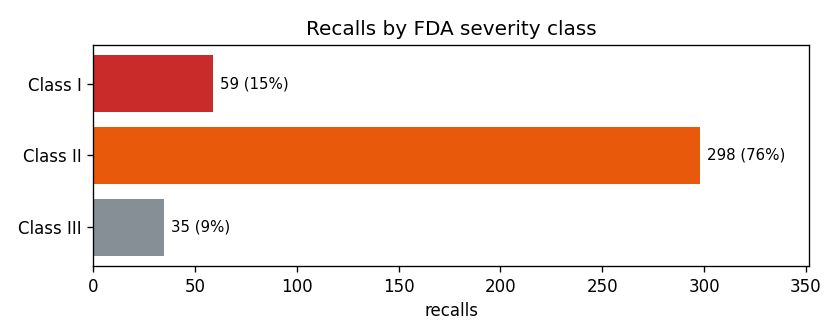
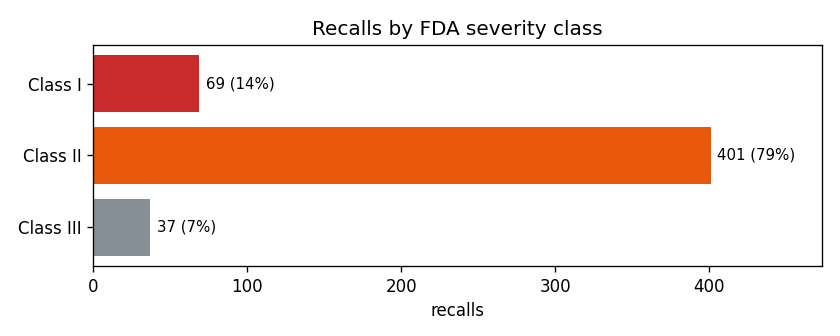
Add median lag by report month; refresh data (115 new archived recalls)

diff --git a/src/recallradar/analyze.py b/src/recallradar/analyze.py
@@ -488,3 +488,28 @@ def report_date_gaps(records: list[dict], n: int = 3) -> dict:
         median = sizes[mid] if len(sizes) % 2 else (sizes[mid - 1] + sizes[mid]) / 2
     longest = sorted(gaps, key=lambda g: (-g["days"], g["from"]))[:n]
     return {"report_dates": len(days), "median_gap_days": median, "longest": longest}
+
+
+def lag_by_report_month(records: list[dict], min_recalls: int = 10) -> list[dict]:
+    """Median reporting lag (days from initiation to enforcement report) per
+    report month, oldest first. Months with fewer than min_recalls usable
+    lags are skipped. openFDA publishes in batches, so a month's lag mostly
+    reflects what was published when; informational only."""
+    by_month: dict[str, list[int]] = {}
+    for rec in records:
+        try:
+            rep = parse_report_date(rec.get("report_date") or "")
+            lag = (rep - parse_report_date(rec.get("recall_initiation_date") or "")).days
+        except ValueError:
+            continue
+        if lag >= 0:
+            by_month.setdefault(rep.strftime("%Y-%m"), []).append(lag)
+    out = []
+    for month in sorted(by_month):
+        lags = sorted(by_month[month])
+        if len(lags) < min_recalls:
+            continue
+        mid = len(lags) // 2
+        median = lags[mid] if len(lags) % 2 else (lags[mid - 1] + lags[mid]) / 2
+        out.append({"month": month, "recalls": len(lags), "median_lag": median})
+    return out

diff --git a/src/recallradar/report.py b/src/recallradar/report.py
@@ -53,7 +53,8 @@ def render_markdown(summary: dict, spotlight: list[dict],
                     slowest: list[dict] | None = None,
                     lag_dist: list[dict] | None = None,
                     firm_class_mix: list[dict] | None = None,
-                    date_gaps: dict | None = None) -> str:
+                    date_gaps: dict | None = None,
+                    lag_months: list[dict] | None = None) -> str:
     generated_at = generated_at or dt.datetime.now(dt.timezone.utc)
     if endpoint_updated:
         parts = ", ".join(f"{ep} {d}" for ep, d in sorted(endpoint_updated.items()))
@@ -115,6 +116,11 @@ def render_markdown(summary: dict, spotlight: list[dict],
                   "| From | To | Days |", "| --- | --- | ---: |"]
         for g in date_gaps["longest"]:
             lines.append(f"| {g['from']} | {g['to']} | {g['days']} |")
+    if lag_months:
+        lines += ["", "Median lag by report month (months with 10+ recalls; reflects openFDA batch timing):", "",
+                  "| Report month | Recalls | Median lag (days) |", "| --- | ---: | ---: |"]
+        for m in lag_months:
+            lines.append(f"| {m['month']} | {m['recalls']} | {m['median_lag']:g} |")
     if lag_by_product:
         lines += ["", "Lag by product type (days, slowest first):", "",
                   "| Product type | Recalls | Median lag | p90 |",

diff --git a/tests/test_analyze.py b/tests/test_analyze.py
@@ -586,3 +586,17 @@ def test_report_date_gaps_median_longest_and_render():
     assert analyze.report_date_gaps([]) == {"report_dates": 0, "median_gap_days": None, "longest": []}
     md = report.render_markdown(analyze.summarize([r for r in recs if r["report_date"] and r["report_date"] != "bad"]), [], dt.date(2026, 11, 1), dt.date(2026, 11, 18), date_gaps=out)
     assert "| 2026-11-03 | 2026-11-10 | 7 |" in md
+
+
+def test_lag_by_report_month_median_floor_and_render():
+    from recallradar import analyze, report
+    import datetime as dt
+    def r(rep, lag):
+        init = dt.date.fromisoformat(rep) - dt.timedelta(days=lag)
+        return {"report_date": rep.replace("-", ""), "recall_initiation_date": init.strftime("%Y%m%d")}
+    recs = [r("2026-10-05", l) for l in (10, 20, 30, 40)] + [r("2026-11-05", 5), r("2026-11-06", 9)]
+    out = analyze.lag_by_report_month(recs, min_recalls=3)
+    assert out == [{"month": "2026-10", "recalls": 4, "median_lag": 25.0}]
+    assert analyze.lag_by_report_month([]) == []
+    md = report.render_markdown(analyze.summarize(recs), [], dt.date(2026, 11, 1), dt.date(2026, 11, 18), lag_months=out)
+    assert "| 2026-10 | 4 | 25 |" in md

diff --git a/scripts/daily_update.py b/scripts/daily_update.py
@@ -111,7 +111,8 @@ def main() -> None:
                                slowest=analyze.slowest_reported(records),
                                lag_dist=analyze.lag_distribution(records),
                                firm_class_mix=analyze.class_mix_by_firm(records),
-                               date_gaps=analyze.report_date_gaps(records)),
+                               date_gaps=analyze.report_date_gaps(records),
+                               lag_months=analyze.lag_by_report_month(records)),
         encoding="utf-8",
     )
     if report.plot_daily_counts(records, REPORTS / "recalls_last_30d.png",

diff --git a/reports/daily_report.md b/reports/daily_report.md
@@ -1,110 +1,117 @@
 # FDA Recall Radar - daily report
 
-Window: 2026-10-25 to 2026-11-24 (by report date). openFDA last_updated by endpoint: device 2026-11-11, drug 2026-11-11, food 2026-11-11. Generated 2026-11-24 20:04 UTC.
+Window: 2026-10-26 to 2026-11-25 (by report date). openFDA last_updated by endpoint: device 2026-11-18, drug 2026-11-18, food 2026-11-18. Generated 2026-11-25 12:04 UTC.
 
-**394 recalls** across 3 active days.
-
-> **Stale upstream data:** openFDA has not published for over 7 days (device 13 days, drug 13 days, food 13 days). Recent days may be missing here until it does.
+**509 recalls** across 4 active days.
 
 ## By severity
 
 | Classification | Recalls |
 | --- | ---: |
-| Class I | 59 |
-| Class II | 298 |
-| Class III | 35 |
+| Class I | 69 |
+| Class II | 401 |
+| Class III | 37 |
 
 ## By product area
 
 | Product type | Recalls |
 | --- | ---: |
-| Devices | 177 |
-| Drugs | 119 |
-| Food | 98 |
+| Devices | 265 |
+| Drugs | 132 |
+| Food | 112 |
 
 ## Reporting lag
 
-Days from recall initiation to the enforcement report, over the 394 recalls in the window with both dates: median **43.0**, p90 65, longest 917.
+Days from recall initiation to the enforcement report, over the 509 recalls in the window with both dates: median **43**, p90 65, longest 1713.
 
 | Classification | Recalls | Median lag | p90 |
 | --- | ---: | ---: | ---: |
-| Class I | 59 | 41 | 65 |
-| Class II | 298 | 42.0 | 65 |
-| Class III | 35 | 65 | 65 |
+| Class I | 69 | 41 | 65 |
+| Class II | 401 | 43 | 65 |
+| Class III | 37 | 65 | 65 |
 
 Lag distribution (recalls with both dates):
 
 | Lag | Recalls | Share |
 | --- | ---: | ---: |
-| 0-14 days | 2 | 0.5% |
-| 15-30 days | 107 | 27.2% |
-| 31-60 days | 196 | 49.8% |
-| 61-90 days | 76 | 19.3% |
-| over 90 days | 13 | 3.3% |
+| 0-14 days | 3 | 0.6% |
+| 15-30 days | 122 | 24.0% |
+| 31-60 days | 273 | 53.6% |
+| 61-90 days | 84 | 16.5% |
+| over 90 days | 27 | 5.3% |
 
 Firms with the highest Class I share (3+ recalls in the window; small counts are noisy):
 
 | Firm | Recalls | Class I | Class I share |
 | --- | ---: | ---: | ---: |
+| Cardinal Health 200, LLC | 13 | 13 | 100.0% |
 | Ventec Life Systems, Inc. | 12 | 12 | 100.0% |
-| Cardinal Health 200, LLC | 11 | 11 | 100.0% |
 | Abiomed, Inc. | 3 | 3 | 100.0% |
 | GF Blends Inc | 3 | 3 | 100.0% |
 | Oliva on Main | 3 | 3 | 100.0% |
 
-Publication rhythm: recalls in the window carry 3 distinct report dates, median gap 7 days. openFDA publishes in batches. Longest gaps:
+Publication rhythm: recalls in the window carry 4 distinct report dates, median gap 7 days. openFDA publishes in batches. Longest gaps:
 
 | From | To | Days |
 | --- | --- | ---: |
 | 2026-10-28 | 2026-11-04 | 7 |
 | 2026-11-04 | 2026-11-11 | 7 |
+| 2026-11-11 | 2026-11-18 | 7 |
+
+Median lag by report month (months with 10+ recalls; reflects openFDA batch timing):
+
+| Report month | Recalls | Median lag (days) |
+| --- | ---: | ---: |
+| 2026-10 | 196 | 48 |
+| 2026-11 | 313 | 42 |
 
 Lag by product type (days, slowest first):
 
 | Product type | Recalls | Median lag | p90 |
 | --- | ---: | ---: | ---: |
-| Food | 98 | 65 | 65 |
-| Devices | 177 | 43 | 64 |
-| Drugs | 119 | 27 | 48 |
+| Food | 112 | 65 | 65 |
+| Devices | 265 | 48 | 75 |
+| Drugs | 132 | 27 | 48 |
 
 Slowest to reach the enforcement report (dates as published by openFDA; very long lags may be old recalls newly classified or source date errors):
 
 | Recall | Firm | Class | Lag (days) |
 | --- | --- | --- | ---: |
+| Z-0428-2027 | Philips Ultrasound, LLC | Class II | 1713 |
 | Z-0320-2027 | Illumina, Inc. | Class II | 917 |
 | Z-0321-2027 | Illumina, Inc. | Class II | 917 |
 | Z-0322-2027 | Illumina, Inc. | Class II | 917 |
 | Z-0323-2027 | Illumina, Inc. | Class II | 917 |
-| Z-0324-2027 | Illumina, Inc. | Class II | 917 |
 
 ## Top recalling firms
 
 - El Ruisenor De Mexico, Inc. (61)
 - Victory Medical Center Pharmacy (42)
 - Boston Scientific Cork, Ltd. (41)
+- Medline Industries, LP (23)
 - ABC Compounding Co., Inc. (19)
 - PRITAM INTERNATIONAL PRIVATE LIMITED (17)
 - Henry Schein Inc. (13)
-- Medline Industries, LP (13)
+- Cardinal Health 200, LLC (13)
 - Ventec Life Systems, Inc. (12)
-- Cardinal Health 200, LLC (11)
-- PHILIPS MEDICAL SYSTEMS NEDERLAND B.V. (9)
+- Physitemp Instruments, LLC (10)
 
 ## Severity by product area
 
 | Product type | Class I | Class II | Class III | Class I share |
 | --- | ---: | ---: | ---: | ---: |
-| Devices | 29 | 148 | 0 | 16% |
-| Drugs | 3 | 111 | 4 | 3% |
-| Food | 27 | 39 | 31 | 28% |
+| Devices | 32 | 232 | 1 | 12% |
+| Drugs | 5 | 121 | 5 | 4% |
+| Food | 32 | 48 | 31 | 29% |
 
 ## Recalls by week
 
 | Week of | Recalls | Class I |
 | --- | ---: | ---: |
-| 2026-10-26 | 194 | 25 |
-| 2026-11-02 | 77 | 12 |
-| 2026-11-09 | 123 | 22 |
+| 2026-10-26 | 196 | 26 |
+| 2026-11-02 | 79 | 12 |
+| 2026-11-09 | 126 | 23 |
+| 2026-11-16 | 108 | 8 |
 
 ## Recall reason themes
 
@@ -114,44 +121,45 @@ Keyword grouping of the free-text reason (illustrative heuristic, not an FDA tax
 
 | Theme | Recalls | Class I |
 | --- | ---: | ---: |
-| Device defect / performance | 98 | 24 |
-| Labeling / undeclared allergen | 88 | 18 |
+| Device defect / performance | 104 | 26 |
+| Labeling / undeclared allergen | 101 | 19 |
 | Manufacturing practice (CGMP) | 85 | 0 |
-| Software / cybersecurity | 26 | 0 |
-| Sterility | 24 | 0 |
-| Contamination / particulate | 22 | 12 |
-| Other | 20 | 2 |
-| Potency / dissolution / stability | 18 | 3 |
-| Regulatory clearance | 13 | 0 |
+| Other | 73 | 3 |
+| Contamination / particulate | 50 | 18 |
+| Software / cybersecurity | 36 | 0 |
+| Sterility | 27 | 0 |
+| Potency / dissolution / stability | 19 | 3 |
+| Regulatory clearance | 14 | 0 |
 
 ## Top reason theme by product area
 
 | Product area | Recalls | Top theme | Share of area |
 | --- | ---: | --- | ---: |
-| Devices | 177 | Device defect / performance | 55% |
-| Drugs | 119 | Manufacturing practice (CGMP) | 70% |
-| Food | 98 | Labeling / undeclared allergen | 80% |
+| Devices | 265 | Device defect / performance | 39% |
+| Drugs | 132 | Manufacturing practice (CGMP) | 63% |
+| Food | 112 | Labeling / undeclared allergen | 72% |
 
 ## Top recalling firms by product area
 
 | Product area | Firm | Recalls | Class I |
 | --- | --- | ---: | ---: |
 | Devices | Boston Scientific Cork, Ltd. | 41 | 0 |
-| Devices | Henry Schein Inc. | 13 | 0 |
-| Devices | Medline Industries, LP | 13 | 0 |
+| Devices | Medline Industries, LP | 23 | 0 |
+| Devices | Cardinal Health 200, LLC | 13 | 13 |
 | Drugs | Victory Medical Center Pharmacy | 42 | 0 |
 | Drugs | ABC Compounding Co., Inc. | 19 | 0 |
 | Drugs | PRITAM INTERNATIONAL PRIVATE LIMITED | 17 | 0 |
 | Food | El Ruisenor De Mexico, Inc. | 61 | 5 |
+| Food | Snack Right Super Foods, Inc. | 4 | 0 |
 | Food | GF Blends Inc | 3 | 3 |
-| Food | Oliva on Main | 3 | 3 |
 
 ## Recall status
 
 | Status | Recalls | Share |
 | --- | ---: | ---: |
-| Ongoing | 393 | 100% |
-| Completed | 1 | 0% |
+| Ongoing | 444 | 87% |
+| Terminated | 62 | 12% |
+| Completed | 3 | 1% |
 
 ## Age of open recalls
 
@@ -159,19 +167,19 @@ Days since initiation for recalls still marked Ongoing.
 
 | Class | Open | Median age (days) | Oldest (days) | Open > 90 days |
 | --- | ---: | ---: | ---: | ---: |
-| Class I | 58 | 61 | 272 | 9 |
-| Class II | 298 | 68 | 930 | 40 |
-| Class III | 35 | 92 | 92 | 30 |
-| Not Yet Classified | 2 | 116 | 200 | 1 |
+| Class I | 61 | 62 | 273 | 5 |
+| Class II | 374 | 62 | 1720 | 27 |
+| Class III | 7 | 48 | 55 | 0 |
+| Not Yet Classified | 2 | 142 | 201 | 1 |
 
 ## Reason themes by month
 
 Top reason themes overall (keyword heuristic, not an FDA taxonomy), by report month.
 
-| Month | Device defect / performance | Labeling / undeclared allergen | Manufacturing practice (CGMP) | Software / cybersecurity | Other themes |
+| Month | Device defect / performance | Labeling / undeclared allergen | Manufacturing practice (CGMP) | Other | Other themes |
 | --- | ---: | ---: | ---: | ---: | ---: |
-| 2026-10 | 73 | 69 | 19 | 3 | 30 |
-| 2026-11 | 25 | 19 | 66 | 23 | 67 |
+| 2026-10 | 73 | 69 | 19 | 7 | 28 |
+| 2026-11 | 31 | 32 | 66 | 66 | 118 |
 
 ## Class I share by month
 
@@ -179,20 +187,20 @@ Share of recalls classed as Class I (most serious) by report month. Recent month
 
 | Month | Recalls | Class I | Share |
 | --- | ---: | ---: | ---: |
-| 2026-10 | 194 | 25 | 13% |
-| 2026-11 | 200 | 34 | 17% |
+| 2026-10 | 196 | 26 | 13% |
+| 2026-11 | 313 | 43 | 14% |
 
 ![Top recalling firms](top_firms.png)
 
 ## Firm concentration
 
-111 distinct firms have 394 recall records in the window. The top 5 firms account for 46% of recalls and 8% of Class I recalls.
+149 distinct firms have 509 recall records in the window. The top 5 firms account for 37% of recalls and 7% of Class I recalls.
 
 - El Ruisenor De Mexico, Inc.: 61
 - Victory Medical Center Pharmacy: 42
 - Boston Scientific Cork, Ltd.: 41
+- Medline Industries, LP: 23
 - ABC Compounding Co., Inc.: 19
-- PRITAM INTERNATIONAL PRIVATE LIMITED: 17
 
 ## Oldest open recalls
 
@@ -200,15 +208,15 @@ Longest-open recalls still marked Ongoing, by days since initiation.
 
 | Recall | Firm | Class | Initiated | Age (days) |
 | --- | --- | --- | --- | ---: |
-| Z-0321-2027 | Illumina, Inc. | Class II | 2024-05-08 | 930 |
-| Z-0324-2027 | Illumina, Inc. | Class II | 2024-05-08 | 930 |
-| Z-0323-2027 | Illumina, Inc. | Class II | 2024-05-08 | 930 |
-| Z-0322-2027 | Illumina, Inc. | Class II | 2024-05-08 | 930 |
-| Z-0320-2027 | Illumina, Inc. | Class II | 2024-05-08 | 930 |
+| Z-0428-2027 | Philips Ultrasound, LLC | Class II | 2022-03-11 | 1720 |
+| Z-0321-2027 | Illumina, Inc. | Class II | 2024-05-08 | 931 |
+| Z-0324-2027 | Illumina, Inc. | Class II | 2024-05-08 | 931 |
+| Z-0323-2027 | Illumina, Inc. | Class II | 2024-05-08 | 931 |
+| Z-0322-2027 | Illumina, Inc. | Class II | 2024-05-08 | 931 |
 
 ## Source data notes
 
-Scope: the 394 recalls with a report date in the rolling window 2026-10-25 to 2026-11-24, not the whole archive (462 recalls keyed by recall_number, which keeps recalls after they leave the window); 2 of the window recalls have no recall_number and are not in the archive. Of the 394: 0 lack an initiation date, 0 have an unparseable date, 0 are reported before their initiation date, 0 lack a classification. Lag and age sections skip those records.
+Scope: the 509 recalls with a report date in the rolling window 2026-10-26 to 2026-11-25, not the whole archive (577 recalls keyed by recall_number, which keeps recalls after they leave the window); 2 of the window recalls have no recall_number and are not in the archive. Of the 509: 0 lack an initiation date, 0 have an unparseable date, 0 are reported before their initiation date, 0 lack a classification. Lag and age sections skip those records.
 
 _Window total includes 2 recalls with no recall_number; they are reported here but cannot be keyed into the archive._
 
@@ -221,16 +229,16 @@ Firms with 3+ recalls in the window (a supplier-risk signal).
 | El Ruisenor De Mexico, Inc. | 61 | 5 |
 | Victory Medical Center Pharmacy | 42 | 0 |
 | Boston Scientific Cork, Ltd. | 41 | 0 |
+| Medline Industries, LP | 23 | 0 |
 | ABC Compounding Co., Inc. | 19 | 0 |
-| PRITAM INTERNATIONAL PRIVATE LIMITED | 17 | 0 |
 
 ## Highest-severity recalls in the window
 
-- **Class I** (20261111): Family Farmstead Dairy, LLC - Potential contamination with E. coli (pathogenic non-O157 STEC).
-- **Class I** (20261111): Krasnyi Oktyabr Inc - Contaminated with Listeria monocytogenes
-- **Class I** (20261111): Krasnyi Oktyabr Inc - Contaminated with Listeria monocytogenes
-- **Class I** (20261111): Lidl US TRADING - Listeria monocytogenes. The firm received positive test result of Listeria monocytogenes in the product.
-- **Class I** (20261111): Lockout Industries, LLC - FDA analysis revealed the presence of undeclared sildenafil.
+- **Class I** (20261118): IBeautiStore.com - Marketed without approved NDA/ANDA- FDA laboratory analysis found product to be tainted with undeclared ingredients: Dexamethasone, Diclofenac and Omeprazole.
+- **Class I** (20261118): Country Creek LLC - Products contain seed recalled from the supplier and may be contaminated with E. coli and/or Salmonella
+- **Class I** (20261118): D & M Smoked Fish, Inc. - May be contaminated with Clostridium botulinum
+- **Class I** (20261118): Fresh & Ready Foods LLC - Possible Listeria monocytogenes contamination.
+- **Class I** (20261118): Francisco Family Foods - Potential E. coli and Salmonella contamination
 
 ![Recalls per day](recalls_last_30d.png)
 
